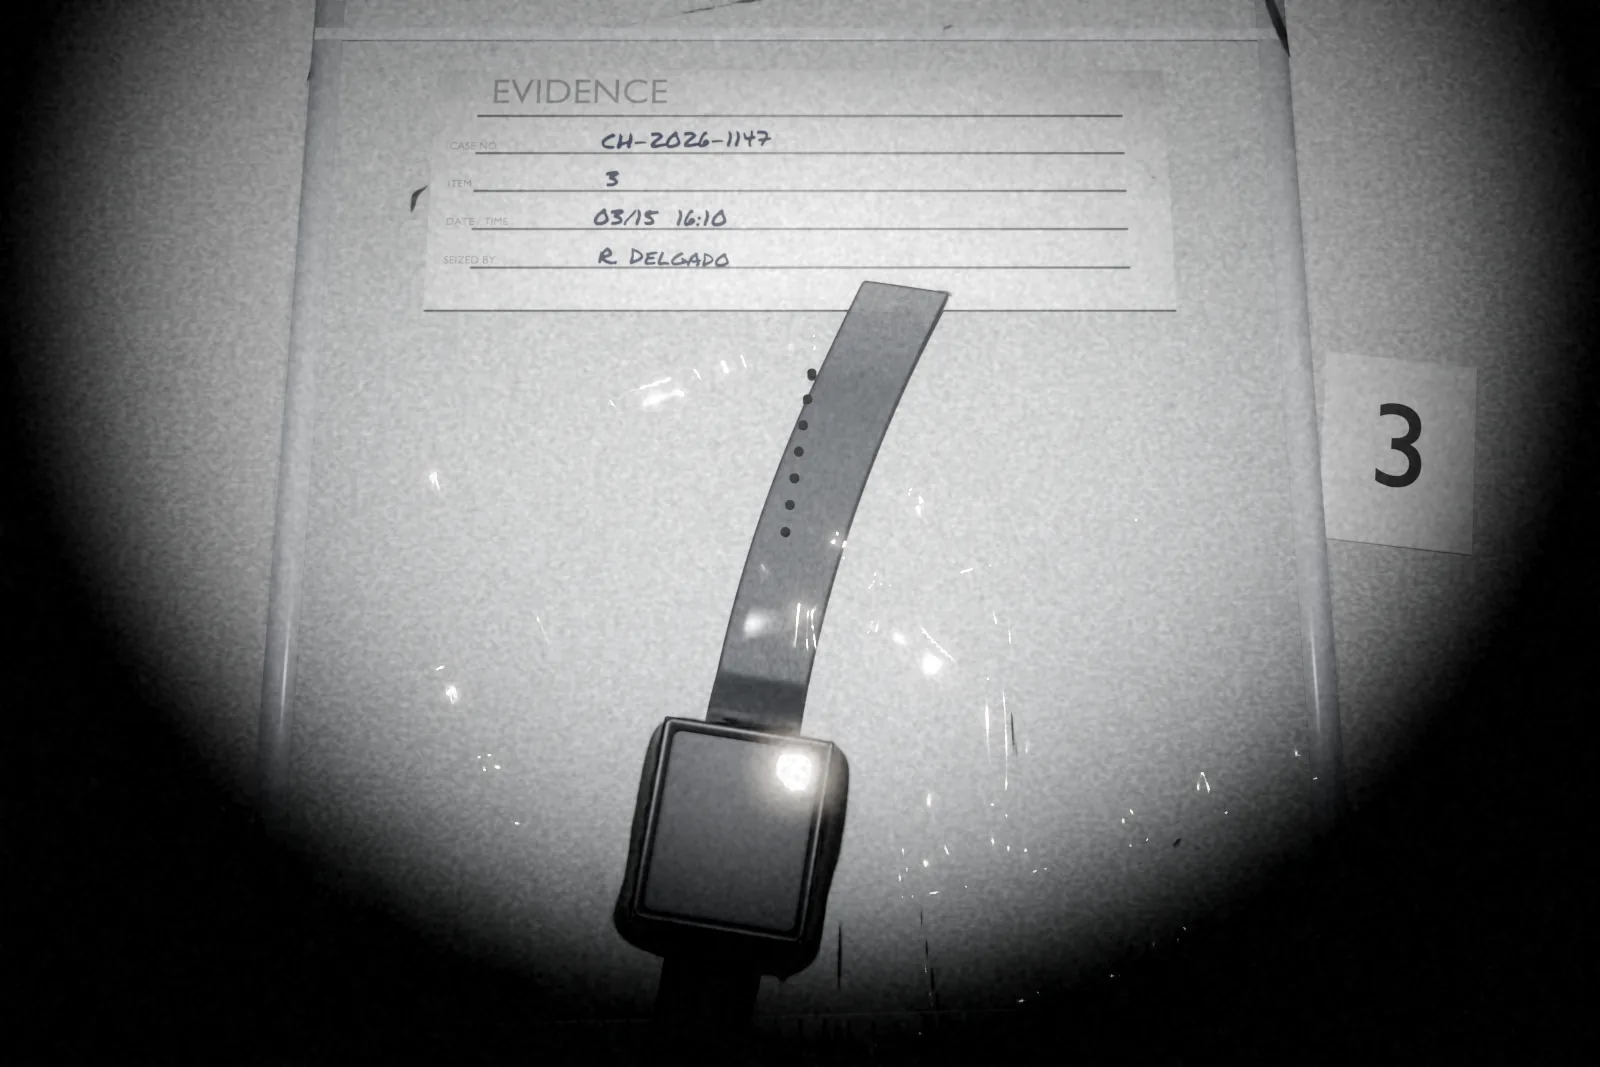
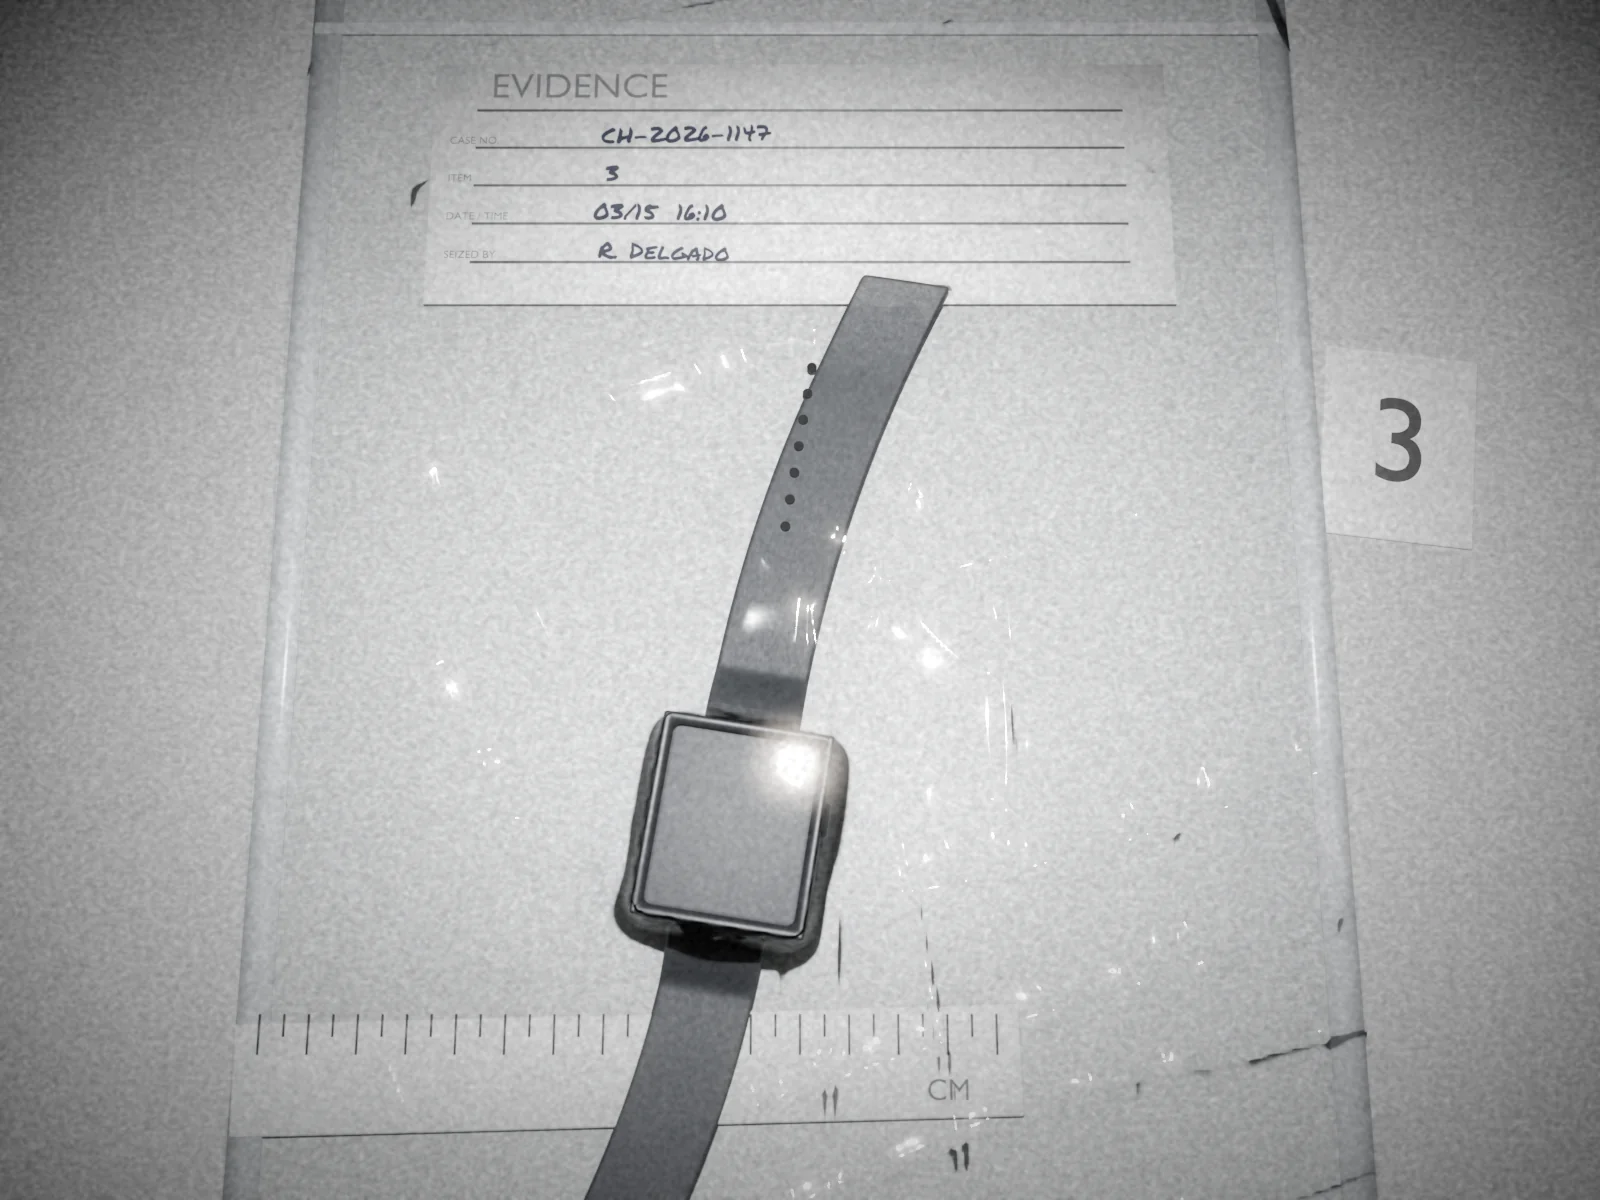
燈組：判決的百葉暖補光 0.7 寫進 court-verdict；財物清單手錶照片換成原生 4:3 (#291)
court-verdict 加 layers.blindglow 0.7（算圖讀，介面不讀）。watch-listed 換成 1600×1200 原生 4:3，照片紀錄表和扣押袋的沖印框跟 ratios.json 登記的比例走，不裁切；watch-listed 登記成 800×600。

Claude-Session: https://claude.ai/code/session_01G8FC15sLW17Be3jTGciJcG

diff --git a/src/ui/Dossier.tsx b/src/ui/Dossier.tsx
@@ -8,7 +8,7 @@ import type { Progress } from '../engine/save';
 import { useLang, useT } from '../i18n';
 import { cardHighlights, Hl } from './Marks';
 import { useScope } from './lang';
-import { hasPrint, Print, redactZone, type PrintUse } from './prints';
+import { hasPrint, Print, printRatio, redactZone, type PrintUse } from './prints';
 import { prose } from './prose';
 import { Redaction } from './Redaction';
 import { caseTermsOf } from './terms';
@@ -239,6 +239,12 @@ export function Who({ text }: { text: string }) {
   );
 }
 
+/** 沖印框跟著照片的比例走（ratios.json 有登記的），照片不裁切；沒登記的照舊是 4×6（dossier.css）。 */
+const printFrame = (id?: string) => {
+  const r = id ? printRatio(id) : undefined;
+  return r ? { aspectRatio: r } : undefined;
+};
+
 /**
  * 沖印本（零圓角）＋底邊四欄：案號、照片序號、時間、攝影者；右下角是 Bates（還沒有號碼就是一條黑條）。
  * 沒有實物照片時是警方閃光燈的版式（中心過曝、四角快速變暗），不畫道具。
@@ -275,7 +281,7 @@ export function PhotoLog({
   const zone = redacted && print ? redactZone(id) : undefined;
   return (
     <figure className="photolog">
-      <span className="photolog-print">
+      <span className="photolog-print" style={printFrame(print ? id : undefined)}>
         {redacted && !zone ? (
           <Redaction label={t('照片已遮蔽')} />
         ) : print ? (
@@ -349,7 +355,7 @@ export function PrintPlate({ id, use }: { id: string; use: PrintUse }) {
   if (!hasPrint(id)) return null;
   return (
     <figure className="photolog bare">
-      <span className="photolog-print">
+      <span className="photolog-print" style={printFrame(id)}>
         <Print id={id} use={use} />
       </span>
     </figure>

diff --git a/src/ui/prints.tsx b/src/ui/prints.tsx
@@ -34,7 +34,7 @@ export const redactZone = (id: string) => zones?.[id]?.redact;
 
 /**
  * 每張證物照片的原圖寬高（ratios.json，照 webp 實際尺寸填）：證據板上的沖印框跟著照片的比例走，照片一律不裁切
- * （設計師 #2 2026-10-16；設定集規定證物縮圖是 800×600，watch-listed 現在是 800×534，等場景光影重出）。沒有登記的是 4:3。
+ * （設計師 #2 2026-10-16；設定集規定證物縮圖是 800×600）。沒有登記的是 4:3。
  */
 const sizes = Object.values(
   import.meta.glob<Record<string, [number, number]>>('./photos/ratios.json', {
@@ -59,9 +59,8 @@ const SIZES = {
 /** 沒有 srcset 的瀏覽器用哪一張：至少這麼寬的最小一張。 */
 const DEFAULT = { board: 400, thumb: 400, drawer: 800, zoom: 1600, scene: 800 } as const;
 /**
- * 照片紀錄表的沖印是 4×6（3:2，設定集第 9 章），紀錄表裡用 cover 置中裁。
- * 手腕那張是 4:3，在紀錄表裡上下各裁一點；扣押袋那張是 3:2（場景光影照紀錄表重拍，標籤留了頭頂空間）。
- * 證據板上的沖印框跟著照片的比例走（printRatio），不裁切。
+ * 照片紀錄表的沖印預設是 4×6（3:2，設定集第 9 章）；ratios.json 有登記的照片，紀錄表和證據板的沖印框
+ * 都跟著照片的比例走（printRatio），不裁切。手腕那張和扣押袋那張都是 4:3（扣押袋那張 2026-10-16 照 800×600 重出）。
  * 31 樓警方照片是 3:2，紀錄表裡不裁，遮蔽範圍照原圖座標畫。
  */
 export type PrintUse = keyof typeof SIZES;

diff --git a/src/ui/rigs.ts b/src/ui/rigs.ts
@@ -5,8 +5,14 @@ import rigData from '../content/rigs.yaml';
  * 燈組資料在 src/content/rigs.yaml；每場戲在劇本裡用 rig: 指定一組（第 10 章 :108），法庭的日卡另外寫當天那一組。
  * 不再用地點字串猜色溫（設計師 2026-10-10：猜錯過，改劇本也容易猜錯）。
  */
-/** grade：算圖的調色參數（例如判決的暗部分色），介面不讀。 */
-export type Rig = { label: string; time: string; kelvin: number; grade?: { split?: number } };
+/** grade、layers：算圖的調色參數和光層權重（例如判決的暗部分色、百葉暖補光），介面不讀。 */
+export type Rig = {
+  label: string;
+  time: string;
+  kelvin: number;
+  grade?: { split?: number };
+  layers?: Record<string, number>;
+};
 
 export const RIGS = rigData as Record<string, Rig>;
 
